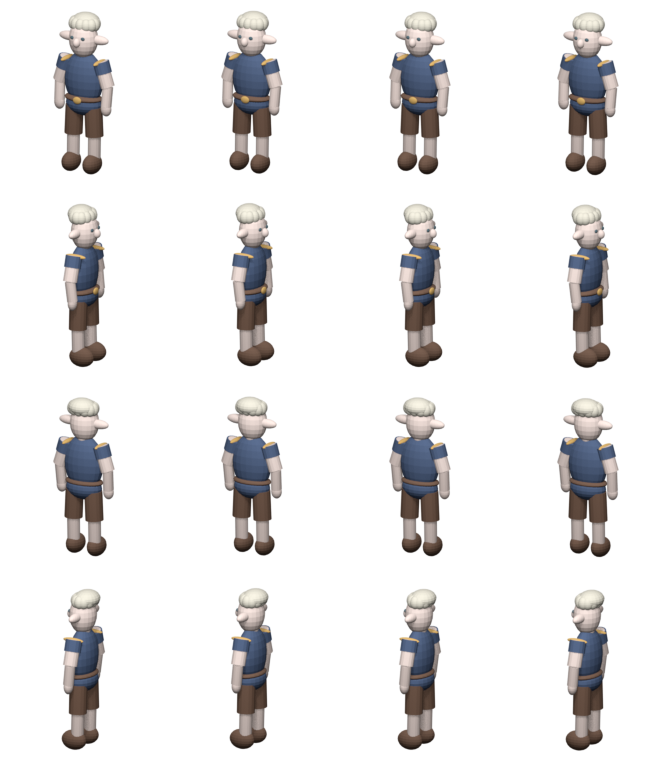
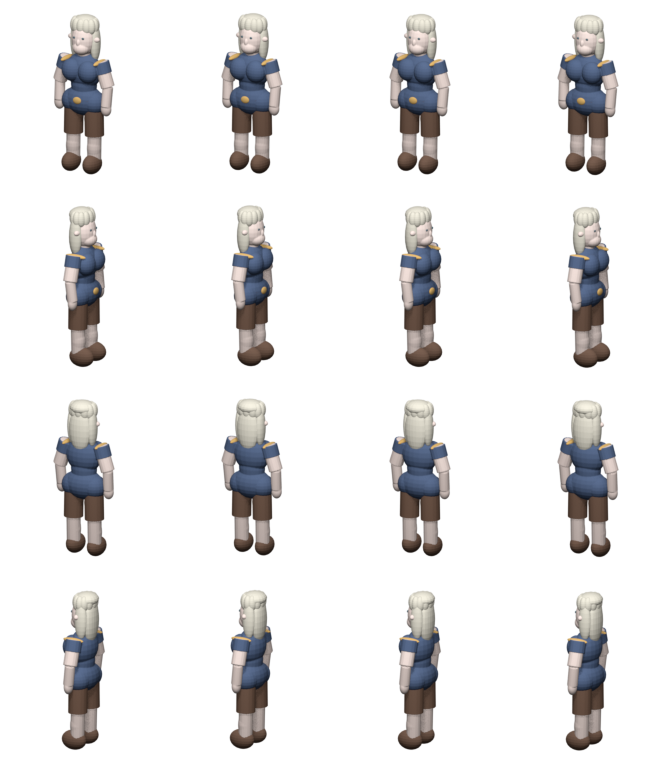
Fix joystick/camera, increase forest density and improve feminine Blender model (#10)
* Correct joystick inverse isometric projection, facing direction and lock camera to hero

* Increase forest density while keeping starting area, roads and rivers clear

* Resculpt Petite Pale with tapered waist, feminine silhouette and smooth connected body meshes

* Bake improved feminine Blender character to integration branch for Android release

* Display improved continuous-mesh feminine Blender model for Petite Pale while preserving prototype Coiled Puff

* Bake real Blender world and Petite Pale atlases

* Refine human facial proportions and longer feminine hairstyle in Blender sculpt

* Bake only changed character model; retain previously verified environment atlases

* Bake real Blender world and Petite Pale atlases

---------

diff --git a/app/src/main/java/com/cosmerearchives/dndroguelike/PrototypeWorldActivity.java b/app/src/main/java/com/cosmerearchives/dndroguelike/PrototypeWorldActivity.java
@@ -68,6 +68,7 @@ public final class PrototypeWorldActivity extends Activity {
         private final float movementFactor;
         private final GaitModel gait = new GaitModel();
         private float x, y, cameraX, cameraY, stickX, stickY;
+        private float facingScreenX, facingScreenY;
         private float idleTime, walkCycles, attackRemaining, blend;
         private int facing, pointer = -1;
         private boolean running, paused;
@@ -151,15 +152,18 @@ public final class PrototypeWorldActivity extends Activity {
                 float travelled=(float)Math.hypot(actualX,actualY);
                 moving=travelled>0.00001f;
                 if (moving) {
+                    // Prototype directions: 0 north (-Y), 1 east (+X),
+                    // 2 south (+Y), 3 west (-X). Do not reverse north/south.
                     facing=Math.abs(actualX)>Math.abs(actualY)
-                        ? (actualX>0?1:3) : (actualY>0?0:2);
+                        ? (actualX>0?1:3) : (actualY>0?2:0);
                     gait.advance(travelled);
                     walkCycles=gait.cycles();
                 }
             }
             blend=Math.max(0,Math.min(1,blend+(moving?10f:-13f)*dt));
-            float follow=Math.min(1,dt*7f);
-            cameraX+=(x-cameraX)*follow;cameraY+=(y-cameraY)*follow;
+            // Lock the camera to the character. A lagging camera made the
+            // joystick appear to drift and the walk animation slide.
+            cameraX=x;cameraY=y;
         }
         // Keep the approved test-room art direction. Repeat its illustrated floor
         // across the camera's visible world instead of painting Blender blocks.
@@ -224,6 +228,14 @@ public final class PrototypeWorldActivity extends Activity {
             float px=sx(x,y),py=sy(x,y)-elevation(x,y);
             // The original approved test-room character and its real walk/punch
             // frames take priority over the later mismatched Blender prototype.
+            if (appearance==ElfAppearance.PETITE && bakedElf!=null) {
+                int frame=Math.floorMod((int)(idleTime*4f),4);
+                source.set(frame*168,facing*192,(frame+1)*168,(facing+1)*192);
+                destination.set(px-84,py-160,px+84,py+32);
+                paint.setColor(Color.WHITE);
+                c.drawBitmap(bakedElf,source,destination,paint);
+                return;
+            }
             if (prototypeIdle!=null
                     && prototypeWalk!=null && prototypePunch!=null) {
                 Bitmap sheet=prototypeIdle;
@@ -311,9 +323,17 @@ public final class PrototypeWorldActivity extends Activity {
             float dx=(px-joystick.centerX())/(48*d),dy=(py-joystick.centerY())/(48*d);
             float mag=(float)Math.hypot(dx,dy);
             if(mag>1){dx/=mag;dy/=mag;}
-            // Screen diagonal to world axes: inverse isometric projection.
-            stickX=(dx+dy)*.70710678f;
-            stickY=(dx-dy)*.70710678f;
+            // Exact inverse of the prototype projection. The original
+            // transform is screenX=(x+y)*HALF_W, screenY=(x-y)*HALF_H.
+            // Compensate for unequal horizontal and vertical screen scales.
+            float ux=dx/HALF_W, uy=dy/HALF_H;
+            float wx=(ux+uy)*.5f, wy=(ux-uy)*.5f;
+            float worldLength=(float)Math.hypot(wx,wy);
+            float inputLength=(float)Math.hypot(dx,dy);
+            if(worldLength>.00001f){
+                stickX=wx/worldLength*inputLength;
+                stickY=wy/worldLength*inputLength;
+            } else {stickX=stickY=0f;}
         }
         @Override public boolean onTouchEvent(MotionEvent e) {
             int action=e.getActionMasked(),index=e.getActionIndex();

diff --git a/blender/create_character.py b/blender/create_character.py
@@ -41,29 +41,58 @@ def link(name,a,b,r,mat):
     o.data.materials.append(mat);o.parent=root
     return o
 
-uv("Torso",(0,0,1.42),(.32,.18,.43),navy)
-uv("Hips",(0,0,1.04),(.29,.19,.18),navy)
+uv("Waist",(0,0,1.33),(.205,.155,.25),navy)
+uv("Ribcage",(0,0,1.55),(.29,.19,.28),navy)
+uv("Bust left",(-.14,-.125,1.57),(.16,.13,.17),navy)
+uv("Bust right",(.14,-.125,1.57),(.16,.13,.17),navy)
+uv("Pelvis",(0,0,1.09),(.32,.21,.23),navy)
+uv("Hip left",(-.18,0,1.07),(.18,.18,.18),navy)
+uv("Hip right",(.18,0,1.07),(.18,.18,.18),navy)
 uv("Neck",(0,0,1.84),(.105,.105,.15),skin)
-uv("Head",(0,-.015,2.04),(.225,.20,.29),skin)
-uv("Nose",(0,-.215,2.025),(.055,.065,.07),skin)
+uv("Head",(0,-.015,2.04),(.185,.165,.255),skin)
+uv("Jaw",(0,-.08,1.92),(.135,.125,.11),skin)
+uv("Nose",(0,-.167,2.015),(.032,.035,.055),skin)
 for side in (-1,1):
     x=side
-    uv("Pointed ear "+str(x),(.25*x,0,2.05),(.17,.065,.07),skin)
-    uv("Eye "+str(x),(.09*x,-.194,2.09),(.034,.019,.028),eye)
+    uv("Pointed ear "+str(x),(.195*x,0,2.05),(.075,.045,.045),skin)
+    uv("Eye "+str(x),(.075*x,-.163,2.085),(.022,.012,.018),eye)
     link("Upper arm "+str(x),(.29*x,0,1.72),(.41*x,0,1.35),.105,skin)
     link("Sleeve "+str(x),(.29*x,0,1.72),(.34*x,0,1.55),.125,navy)
     link("Forearm "+str(x),(.41*x,0,1.35),(.40*x,-.035,1.05),.078,skin)
     uv("Hand "+str(x),(.40*x,-.035,1.015),(.083,.065,.11),skin)
-    link("Thigh "+str(x),(.16*x,0,1.00),(.18*x,0,.56),.135,leather)
-    link("Shin "+str(x),(.18*x,0,.56),(.18*x,-.01,.16),.095,skin)
+    link("Thigh "+str(x),(.17*x,0,1.04),(.18*x,0,.57),.145,leather)
+    uv("Upper leg contour "+str(x),(.17*x,0,.83),(.145,.14,.25),leather)
+    link("Shin "+str(x),(.18*x,0,.56),(.18*x,-.01,.16),.105,skin)
+    uv("Calf contour "+str(x),(.18*x,-.01,.37),(.108,.108,.21),skin)
     uv("Boot "+str(x),(.18*x,-.065,.14),(.125,.20,.15),leather)
     uv("Shoulder trim "+str(x),(.28*x,-.02,1.71),(.045,.17,.035),gold)
 uv("Belt",(0,-.01,1.13),(.31,.195,.065),leather)
 uv("Buckle",(0,-.205,1.13),(.07,.025,.055),gold)
 for i in range(12):
     angle=2*math.pi*i/12
-    uv("Hair curl %02d"%i,(.17*math.cos(angle),.12*math.sin(angle)+.02,2.27),(.083,.083,.10),hair)
-uv("Hair crown",(0,.055,2.30),(.215,.19,.13),hair)
+    uv("Hair strand %02d"%i,(.16*math.cos(angle),.115*math.sin(angle)+.025,2.245),(.072,.065,.12),hair)
+uv("Hair crown",(0,.045,2.29),(.195,.18,.105),hair)
+for side in (-1,1):
+    uv("Side hair "+str(side),(.17*side,.045,1.99),(.07,.10,.29),hair)
+uv("Back hair",(0,.12,1.96),(.18,.09,.34),hair)
+# Smooth the intersecting primitive silhouette into a continuous surface.
+# Keep materials grouped so clothing, skin and hair remain independently shaded.
+for material_group in (navy, skin, leather):
+    parts=[o for o in bpy.data.objects if o.type=="MESH" and o.data.materials and o.data.materials[0]==material_group]
+    if len(parts)<2: continue
+    bpy.ops.object.select_all(action="DESELECT")
+    for o in parts:o.select_set(True)
+    bpy.context.view_layer.objects.active=parts[0]
+    bpy.ops.object.join()
+    joined=bpy.context.object
+    joined.name="Continuous "+material_group.name
+    remesh=joined.modifiers.new("Blend overlapping anatomy","REMESH")
+    remesh.mode="VOXEL";remesh.voxel_size=.032
+    bpy.ops.object.modifier_apply(modifier=remesh.name)
+    smooth=joined.modifiers.new("Soft organic silhouette","SMOOTH")
+    smooth.factor=1.2;smooth.iterations=4
+    bpy.ops.object.modifier_apply(modifier=smooth.name)
+    for polygon in joined.data.polygons:polygon.use_smooth=True
 
 world=bpy.context.scene.world
 world.color=(.32,.32,.32)

diff --git a/app/src/main/java/com/cosmerearchives/dndroguelike/WorldTerrain.java b/app/src/main/java/com/cosmerearchives/dndroguelike/WorldTerrain.java
@@ -66,7 +66,11 @@ final class WorldTerrain {
         if(Math.abs(x)<7&&Math.abs(y)<7||road(x,y)||river(x,y))return -1;
         long seed=hash(x,y,83);
         int kind=biome(x,y);
-        if((seed&15)==4&&(kind==1||kind==2))return (seed&64)==0?1:2;
+        // Denser woodland: approximately one tree in four forest tiles,
+        // and one in eight temperate grassland tiles. Preserve clear roads,
+        // rivers and the starting area for movement.
+        if((kind==1||kind==2) && (seed&3)==0)return (seed&64)==0?1:2;
+        if(kind==0 && (seed&7)==4)return (seed&64)==0?1:2;
         if((seed&31)==15&&height(x,y)>0)return 3;
         if((seed&31)==22&&kind<=2)return 4;
         return -1;
